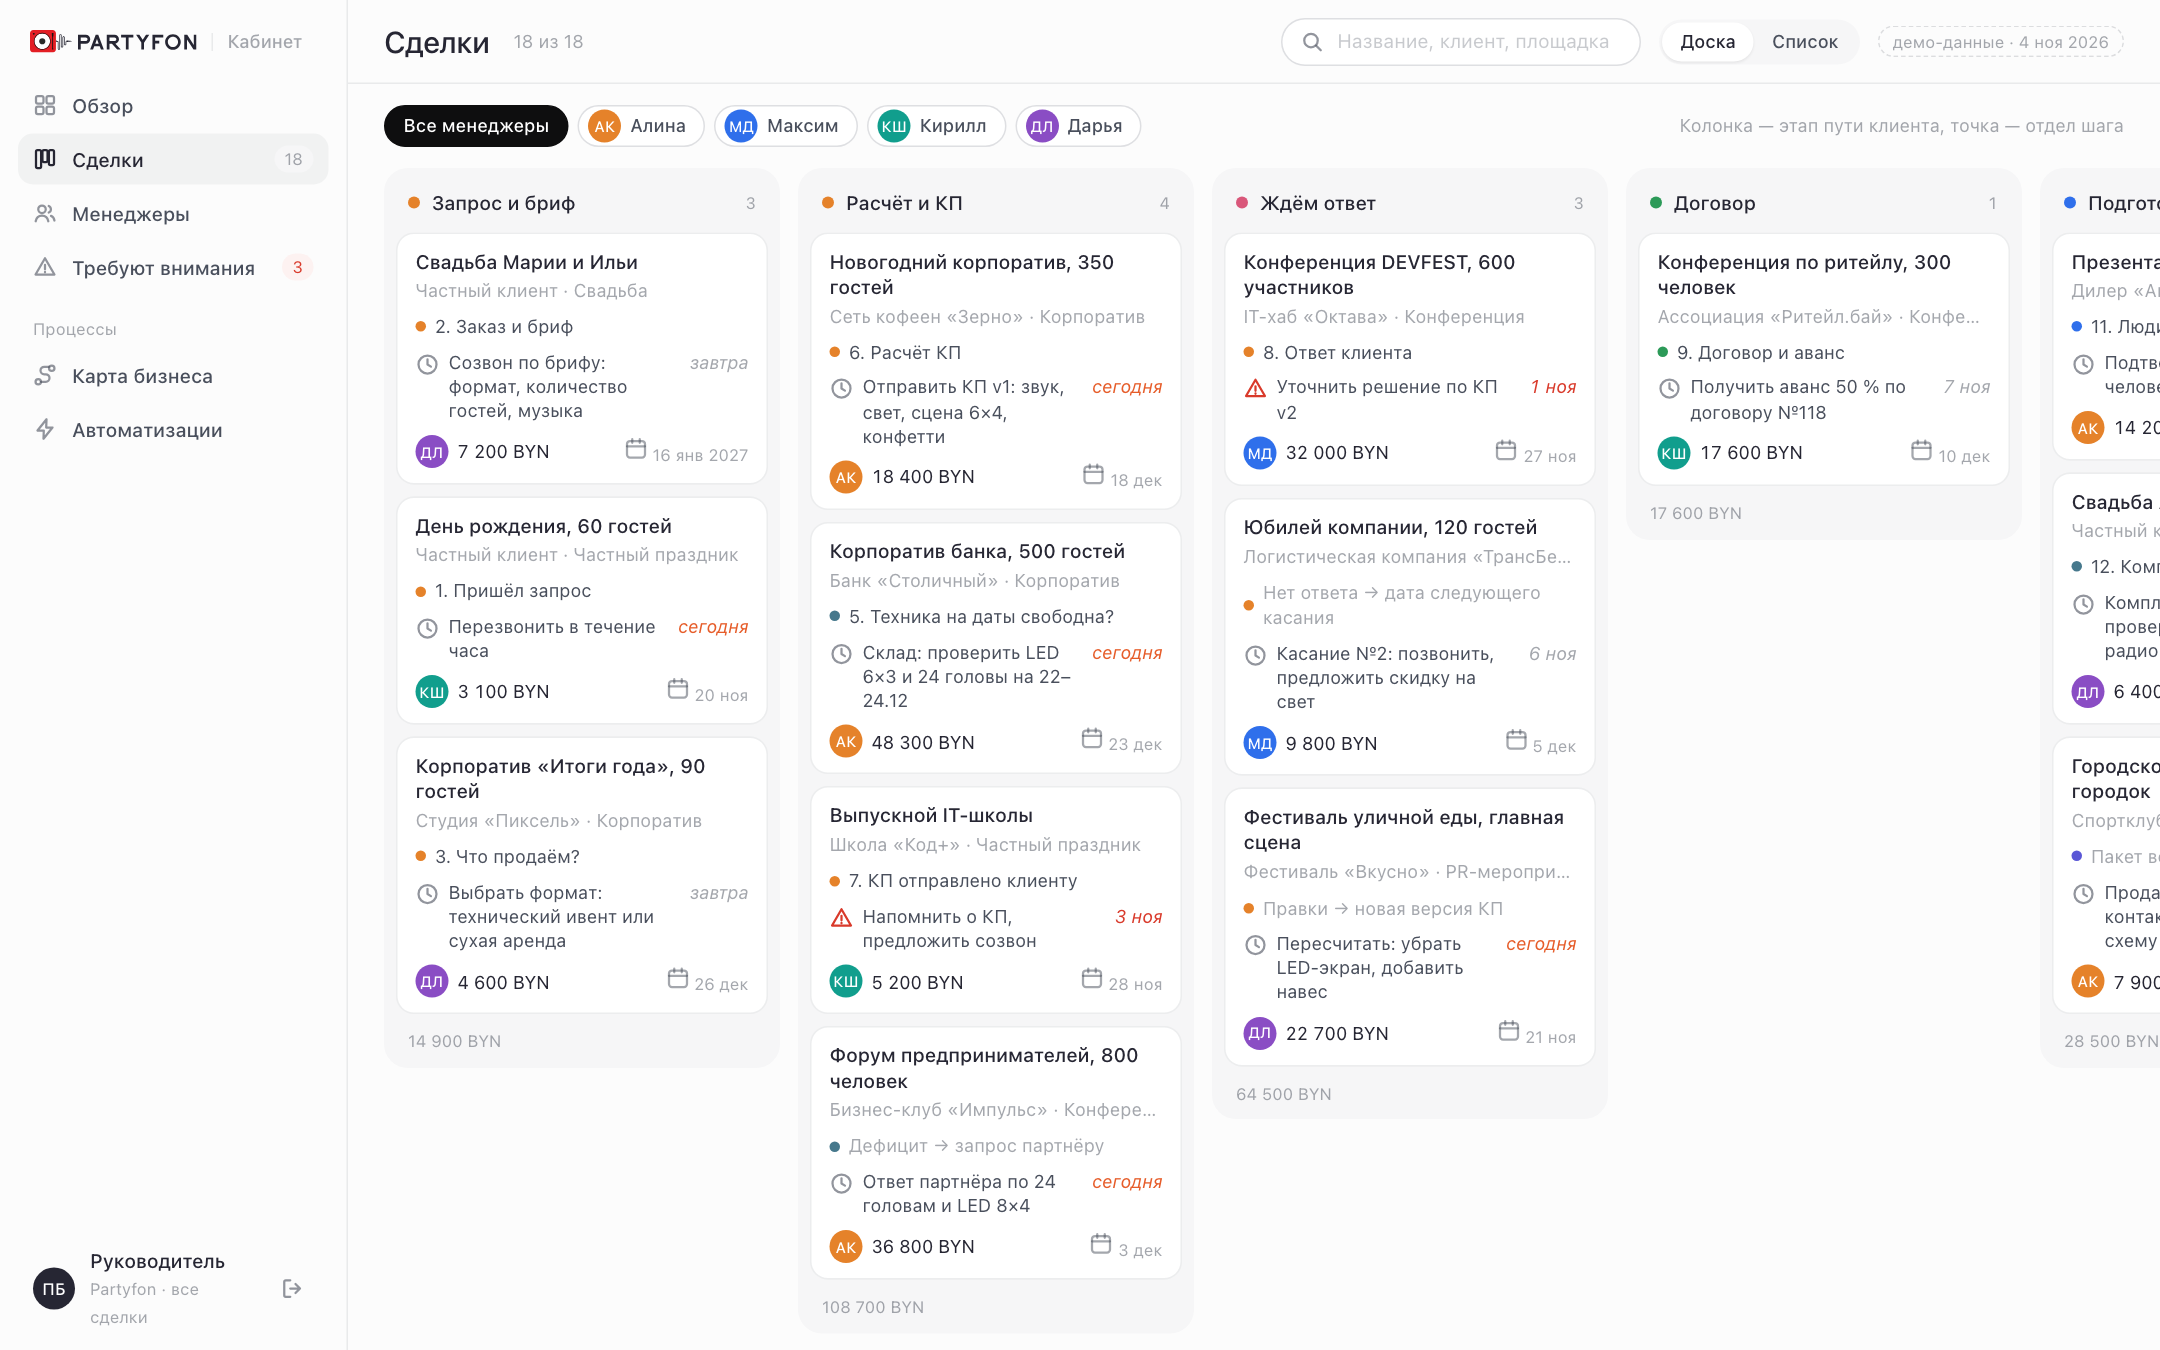
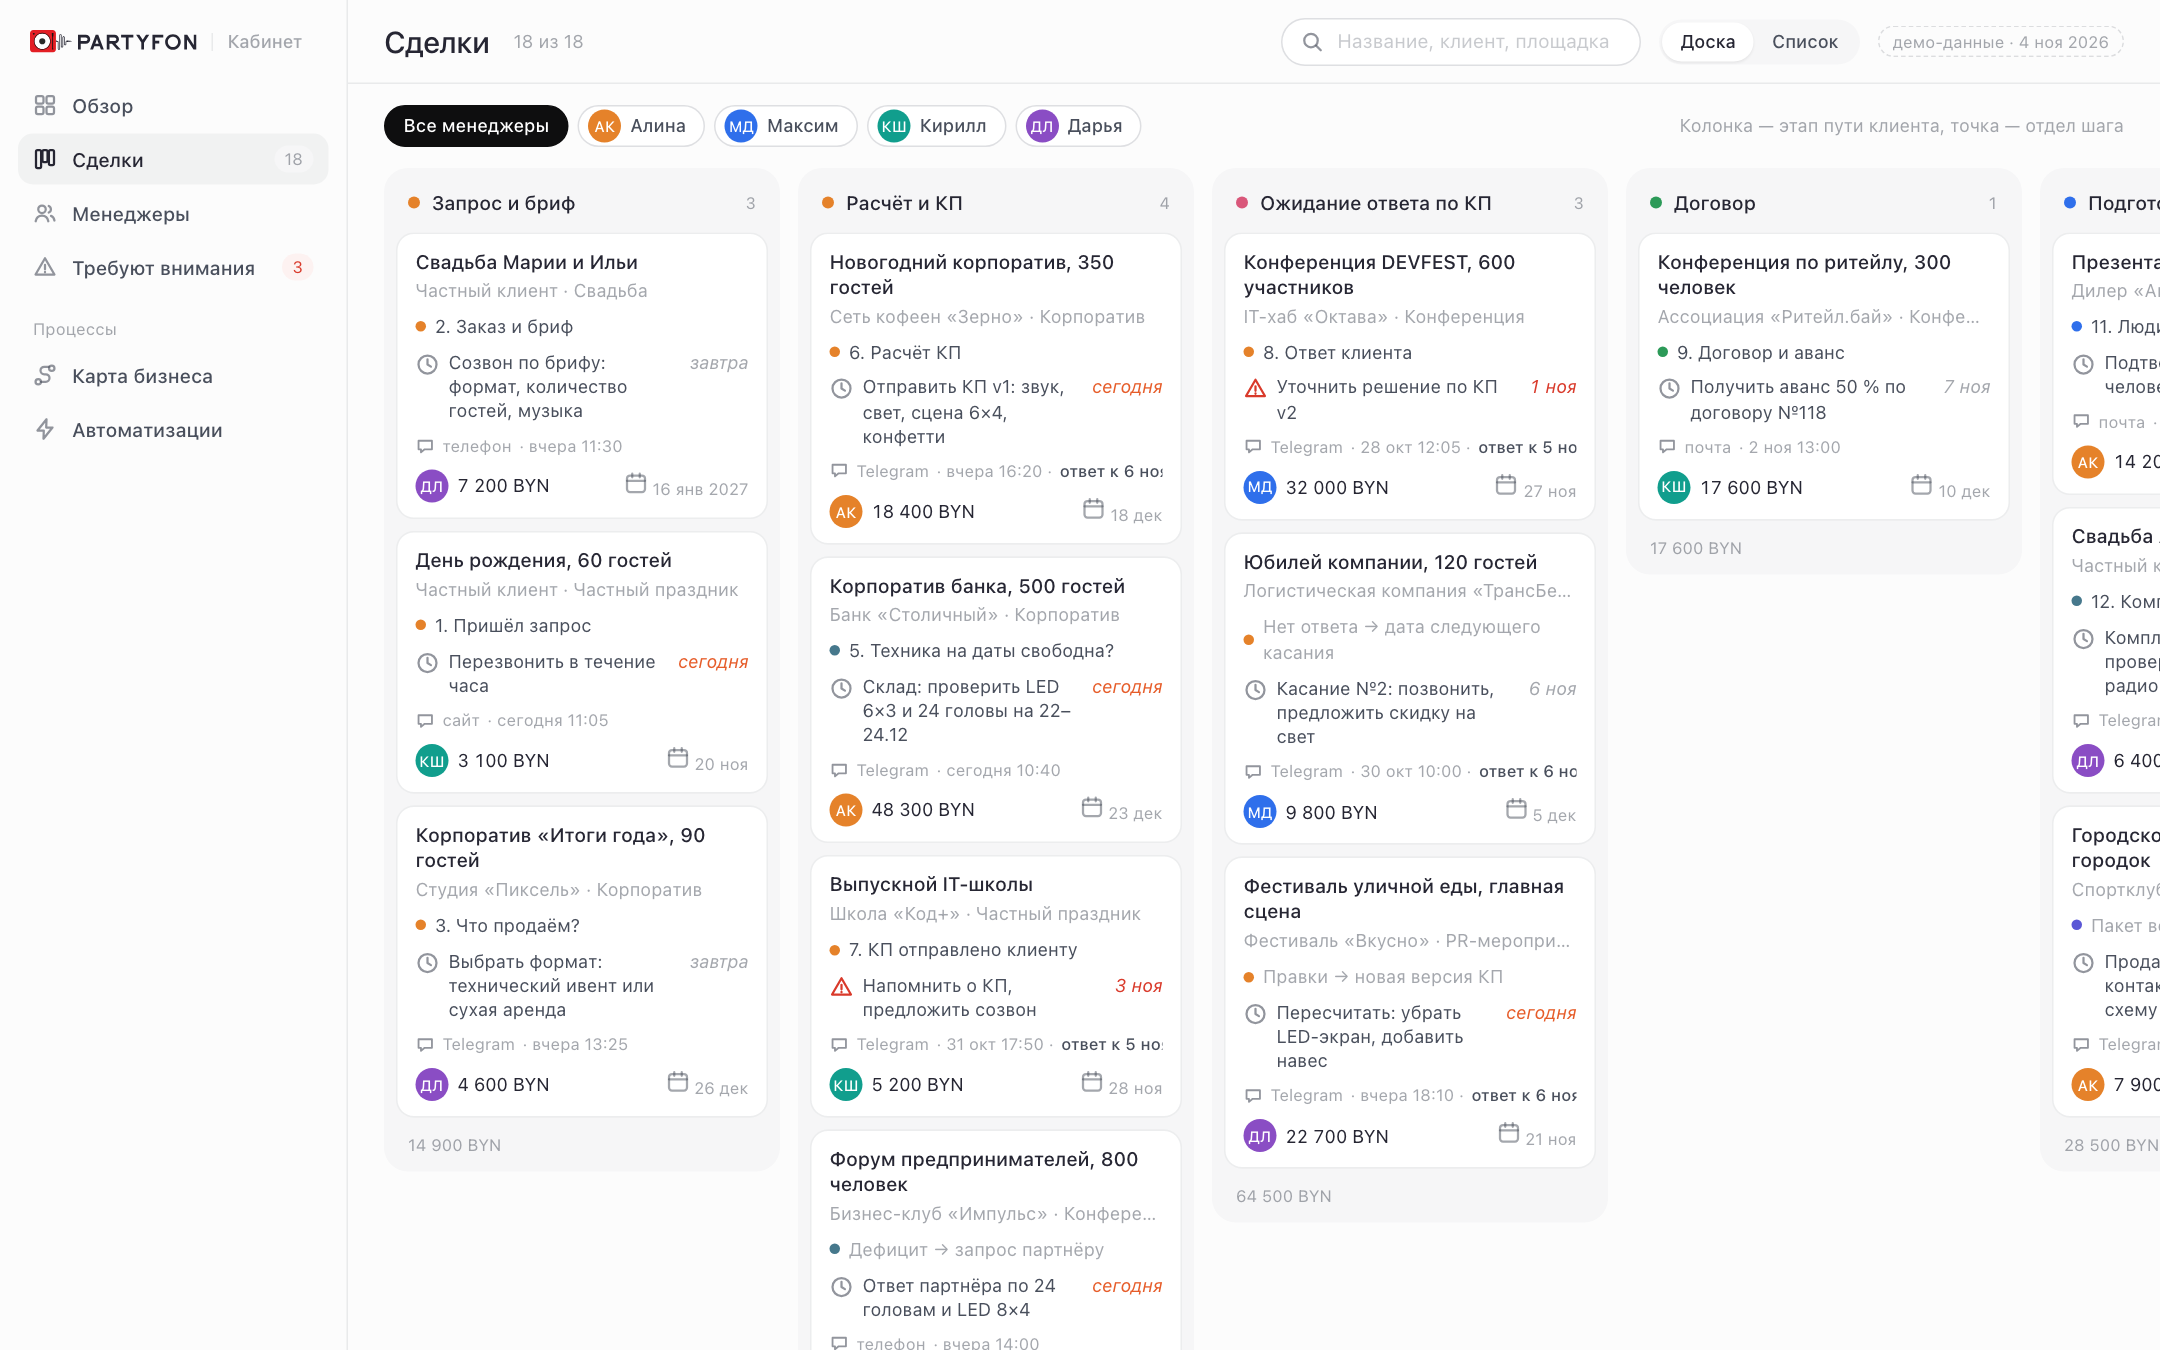
Кабинет: последний контакт и ожидаемый ответ, техника на даты, срок на КП; лендинг: плашка не закрывает лого, превью крупнее

diff --git a/site/index.html b/site/index.html
@@ -47,9 +47,10 @@ a:hover .arr{transform:rotate(45deg)}
 .hero h1{max-width:1100px;margin:0 auto 18px}
 .hero p{font-size:20px;color:var(--c05);max-width:760px;margin:0 auto 36px}
 .hero .cta{display:flex;gap:12px;justify-content:center;flex-wrap:wrap}
-.shot{margin:64px auto 0;max-width:1480px;border-radius:24px;overflow:hidden;background:var(--c01);padding:14px;position:relative}
+.shot{margin:64px auto 0;max-width:1480px;border-radius:24px;overflow:hidden;background:var(--c01);padding:14px;text-align:left}
 .shot img{border-radius:14px;width:100%}
-.shot .tag{position:absolute;left:34px;top:34px;background:var(--c00);color:var(--c03);border-radius:100px;padding:8px 14px;font-size:13px;font-weight:500}
+.shot .tag{display:inline-flex;align-items:center;gap:8px;margin:4px 0 12px 6px;color:var(--c05);font-size:14px;font-weight:500}
+.shot .tag::before{content:'';width:8px;height:8px;border-radius:50%;background:var(--red)}
 
 /* sections */
 section{padding:56px 0}
@@ -72,7 +73,8 @@ section{padding:56px 0}
 .who li{display:flex;gap:14px;align-items:flex-start}
 .who li i{width:26px;height:26px;border-radius:50%;border:1px solid var(--line);display:grid;place-items:center;flex:none;margin-top:1px}
 .who li i svg{width:12px;height:12px;stroke:var(--c03);fill:none;stroke-width:2;stroke-linecap:round;stroke-linejoin:round}
-.who img{border-radius:14px;margin-top:8px;border:1px solid var(--line)}
+.who .pv{margin-top:8px;border-radius:14px;border:1px solid var(--line);overflow:hidden;aspect-ratio:16/10;background:#fff}
+.who .pv img{width:160%;max-width:none;height:auto}
 
 .nums{display:grid;grid-template-columns:repeat(4,1fr);gap:24px}
 .num-c{padding:36px 40px 40px}
@@ -108,7 +110,7 @@ footer nav{display:flex;gap:24px}
   .cat{padding:28px 24px;min-height:0}.cat .t h3{font-size:26px}.cat .num{font-size:72px}
   .who,.rowc{padding:28px 24px}.rowc h3{font-size:24px}.cta-b{padding:40px 24px}.cta-b h2{font-size:32px}
   .sec-h{flex-direction:column;align-items:flex-start;gap:12px}
-  .shot{padding:8px;border-radius:16px}.shot .tag{left:18px;top:18px}
+  .shot{padding:8px;border-radius:16px}.shot .tag{margin:4px 0 8px 4px;font-size:13px}
   .chip{height:38px;font-size:14px;padding:0 14px}
   .btn{white-space:normal;text-align:center;height:auto;min-height:52px;padding:12px 22px;line-height:1.25}.hdr .btn{min-height:40px;padding:8px 16px}
 }
@@ -153,14 +155,14 @@ footer nav{display:flex;gap:24px}
         <li><i><svg viewBox="0 0 24 24"><path d="m5 12 5 5L19 7"/></svg></i>Нагрузка и просрочки по каждому менеджеру, время ответа клиенту, конверсия</li>
         <li><i><svg viewBox="0 0 24 24"><path d="m5 12 5 5L19 7"/></svg></i>Список «требуют внимания»: КП без ответа, сделки вне пути, срок сегодня</li>
       </ul>
-      <img src="../assets/cab-board.png" alt="Доска сделок по этапам пути клиента" width="1440" height="900"></div>
+      <div class="pv"><img src="../assets/cab-board.png" alt="Доска сделок по этапам пути клиента" width="1440" height="900"></div></div>
     <div class="card who"><span class="lab">Менеджеру</span><h3>Одна карточка на сделку</h3>
       <ul>
         <li><i><svg viewBox="0 0 24 24"><path d="m5 12 5 5L19 7"/></svg></i>Путь клиента с текущим шагом, следующее действие и его срок</li>
         <li><i><svg viewBox="0 0 24 24"><path d="m5 12 5 5L19 7"/></svg></i>Бриф, версии КП, договор и пакет в производство в одном месте, а не в Excel и Telegram</li>
         <li><i><svg viewBox="0 0 24 24"><path d="m5 12 5 5L19 7"/></svg></i>Напоминание о касании само ставит задачу, если клиент молчит</li>
       </ul>
-      <img src="../assets/cab-deal.png" alt="Карточка сделки с путём клиента" width="1440" height="900"></div>
+      <div class="pv"><img src="../assets/cab-deal.png" alt="Карточка сделки с путём клиента" width="1440" height="900"></div></div>
   </div>
 </section>
 
